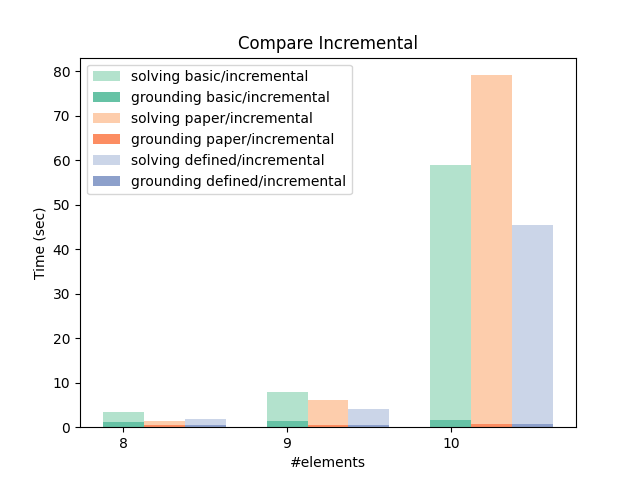
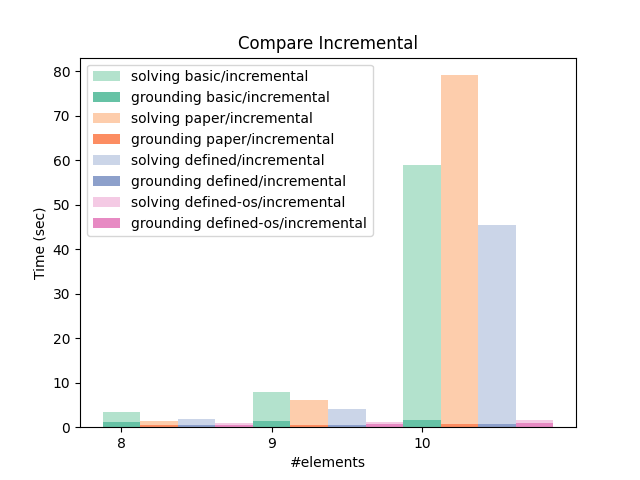
Option to extend incrementally overshooting

diff --git a/asp_interactive_configuration/ooasp/tests/test_interactive_defined.py b/asp_interactive_configuration/ooasp/tests/test_interactive_defined.py
@@ -111,12 +111,53 @@ def test_s_interactive_extend_incrementally():
     assert iconf.domain_size == 5
     assert "ooasp_domain(frame,1)." in found.fb.asp_str()
     assert "ooasp_isa_leaf(frame,1)." in found.fb.asp_str()
+    assert "ooasp_domain(object,2)." in found.fb.asp_str()
     assert "ooasp_domain(object,3)." in found.fb.asp_str()
     assert "ooasp_domain(object,4)." in found.fb.asp_str()
     assert "ooasp_domain(object,5)." in found.fb.asp_str()
     found = iconf.next_solution()
     assert found
     assert len(iconf.states)==3
+
+def test_s_interactive_extend_incrementally_overshooting():
+    racks_kb = OOASPKnowledgeBase.from_file("racks_v1",settings.racks_example_kb)
+    iconf = InteractiveConfigurator(racks_kb,"i1")
+    iconf.new_object('frame')
+    found = iconf.extend_incrementally(overshoot=True)
+    assert found
+    assert iconf.domain_size == 5
+    assert "ooasp_domain(frame,1)." in found.fb.asp_str()
+    assert "ooasp_isa_leaf(frame,1)." in found.fb.asp_str()
+    assert "ooasp_domain(rack,2)." in found.fb.asp_str()
+    assert "ooasp_domain(object,3)." in found.fb.asp_str()
+    assert "ooasp_domain(object,4)." in found.fb.asp_str()
+    assert "ooasp_domain(object,5)." in found.fb.asp_str()
+    print(iconf)
+    found = iconf.next_solution()
+    assert found
+    print(found)
+    assert len(iconf.states)==3
+
+def test_s_interactive_extend_incrementally_overshooting_leaving_object():
+    racks_kb = OOASPKnowledgeBase.from_file("racks_v1",settings.racks_example_kb)
+    iconf = InteractiveConfigurator(racks_kb,"i1")
+    iconf.new_object('frame')
+    iconf.new_object('frame')
+    found = iconf.extend_incrementally(overshoot=True)
+    assert found
+    assert iconf.domain_size == 6
+    assert "ooasp_domain(frame,1)." in found.fb.asp_str()
+    assert "ooasp_isa_leaf(frame,1)." in found.fb.asp_str()
+    assert "ooasp_domain(frame,2)." in found.fb.asp_str()
+    assert "ooasp_domain(rack,3)." in found.fb.asp_str()
+    assert "ooasp_domain(rack,4)." in found.fb.asp_str()
+    found = iconf.next_solution()
+    print(found)
+    assert found
+    assert not "ooasp_isa_leaf(rack,4)." in found.fb.asp_str() or  not "ooasp_isa_leaf(rack,3)." in found.fb.asp_str()
+    assert found.size == 5
+    assert len(iconf.states)==4
+
 
 def test_s_interactive_select_full():
     racks_kb = OOASPKnowledgeBase.from_file("racks_v1",settings.racks_example_kb)
@@ -345,6 +386,28 @@ def test_extend_propagate_symmetry():
     assert found
     found = iconf.next_solution()
     assert found
+
+def test_create_required_objects():
+    racks_kb = OOASPKnowledgeBase.from_file("racks_v1",settings.racks_example_kb)
+    iconf = InteractiveConfigurator(racks_kb,"i1")
+    # iconf.extend_domain(5,cls='object',propagate=True)
+    iconf.extend_domain(1,cls='rackSingle')
+    iconf.extend_domain(3,cls='frame')
+    iconf.select_association('rack_frames',1,2)
+    iconf.select_association('rack_frames',1,3)
+    iconf.select_association('rack_frames',1,4)
+    found = iconf.next_solution()
+    assert not found
+    config_str = iconf.config.fb.asp_str()
+    assert "ooasp_associated(rack_frames,1,2)." in config_str
+    assert "ooasp_associated(rack_frames,1,3)." in config_str
+    assert "ooasp_associated(rack_frames,1,4)." in config_str
+    iconf._create_required_objects('rackSingle',1)
+    config_str = iconf.config.fb.asp_str()
+    assert "ooasp_domain(frame,5)." in config_str
+    found = iconf.next_solution()
+    assert found
+
 
 def test_custom_interactive_add_leaf_extend_browse():
     racks_kb = OOASPKnowledgeBase.from_file("racks_v1",settings.racks_example_kb)

diff --git a/asp_interactive_configuration/ooasp/interactive.py b/asp_interactive_configuration/ooasp/interactive.py
@@ -283,23 +283,26 @@ class InteractiveConfigurator:
         """
         self.ctl.add("domain",[str(self.domain_size)],str(fact)+".")
 
-    def _create_associations(self, cls:str, object_id:int, ignore_cls:List=None)->None:
-        if ignore_cls is None:
-            ignore_cls = set()
+    def _create_required_objects(self, cls:str, object_id:int, ignore_assoc:List=None)->None:
+        if ignore_assoc is None:
+            ignore_assoc = set()
         assocs = self.config.kb.associations(cls)
         assocs_added = []
         for name, class2, min, max in assocs:
-            if name in ignore_cls:
+            if name in ignore_assoc:
                 continue
+            curret_assoc = self.config.associated_by(object_id,name)
+            remaining = min - len(curret_assoc) 
+            if remaining<0:
+                raise RuntimeError(f"Object {object_id} associated to more objects via {name}, tha expected")
             assocs_added.append(name)
-            for _ in range(min):
+            for _ in range(remaining):
                 object_id2 = self._extend_domain(class2,True,assocs_added)
-                # self.config.add_association(name,object_id,object_id2)
 
 
 
 
-    def _extend_domain(self, cls='object',propagate=False, ignore_cls:List=None)->int:
+    def _extend_domain(self, cls='object',propagate=False, ignore_assoc:List=None)->int:
         """
         Increases the domain size by one and adds a new domain(object,N) fact to
         the configuration.
@@ -309,7 +312,7 @@ class InteractiveConfigurator:
         new_object = self.state.domain_size
         self.config.add_domain(cls,new_object)
         if propagate:
-            self._create_associations(cls, new_object,ignore_cls)
+            self._create_required_objects(cls, new_object,ignore_assoc)
         return new_object
 
 
@@ -653,7 +656,7 @@ class InteractiveConfigurator:
             self.states.pop()
             raise e
 
-    def extend_incrementally(self, domain_limit:int=100)->OOASPConfiguration:
+    def extend_incrementally(self, domain_limit:int=100, overshoot:bool=False)->OOASPConfiguration:
         """
         Creates a state with a new configuration.
         Trys to find a solution for the current domain size, if a solution is
@@ -667,10 +670,16 @@ class InteractiveConfigurator:
 
             Parameters:
                 domain_limit: The limit size the domain can reach
+                overshoot: If this is passed, then the required elements will be created for each object
             Returns:
                 The found OOASPConfiguration or None if no more solutions are found
         """
-        self._new_state("Extend incrementally",deep=True)
+        name = "Extend incrementally" if not overshoot else "Extend incrementally overshooting"
+        self._new_state(name,deep=True)
+        if overshoot:
+            objs = self.config.objects
+            for o in objs:
+                self._create_required_objects(o.class_name, o.object_id)
         self.found_config = self._next_solution()
 
         while self.found_config == None or self.domain_size>domain_limit:

diff --git a/asp_interactive_configuration/benchmarks/benchmark.py b/asp_interactive_configuration/benchmarks/benchmark.py
@@ -43,8 +43,11 @@ class BM:
         self.set_final_results()
 
     def add_run_results(self, time, iconf):
+        print(iconf)
         result = {
-           "time": time
+           "time": time,
+           "size": iconf.config.size,
+           "domain_size": iconf.config.domain_size,
         }
         result.update(iconf._statistics)
         self.runs[len(self.runs)]=result
@@ -54,9 +57,12 @@ class BM:
         for run in self.runs.values():
             for t in self.final_results.keys():
                 self.final_results[t]+=run[t]
+            self.final_results['size']=run['size']
+            self.final_results['domain_size']=run['domain_size']
 
-        for t in self.final_results.keys():
+        for t in ['time','time-solving','time-grounding']:
             self.final_results[t]=self.final_results[t]/self.n_runs
+
 
         times_per_domain = ["per-domain-grounding","per-domain-solving"]
         for tpd in times_per_domain:
@@ -92,38 +98,27 @@ def new_iconf():
 def extend_solve(ne):
     iconf = new_iconf()
     # current limit
-    if opt == 'defined':
-        # TODO fix
-        iconf.extend_domain(ne, "elementA")
-    else:
-        for i in range(ne):
-            iconf.new_object("elementA")
+    for i in range(ne):
+        iconf.new_object("elementA")
     iconf.extend_domain(ne + 5)
     found = iconf.next_solution()
+    iconf.select_found_configuration()
     return iconf
 
 def incremental(ne):
     iconf = new_iconf()
     # current limit
-    if opt == 'defined':
-        for i in range(ne):
-            iconf.extend_domain(1, "elementA")
-            iconf.select_object_class(i+1, "elementA")
-    else:
-        for i in range(ne):
-            iconf.new_object("elementA")
-    found = iconf.extend_incrementally()
-    print(found)
+    for i in range(ne):
+        iconf.new_object("elementA")
+    found = iconf.extend_incrementally(overshoot=True)
+    iconf.select_found_configuration()
     return iconf
 
 def options(ne):
     iconf = new_iconf()
     # current limit
-    if opt=='defined':
-        iconf.extend_domain(ne,"elementA")
-    else:
-        for i in range(ne):
-            iconf.new_object("elementA")
+    for i in range(ne):
+        iconf.new_object("elementA")
     iconf.get_options()
     return iconf
 
@@ -152,6 +147,6 @@ def run(n_runs,fun,elements,name = "extend_solve"):
     save_results(results,name)
 
 # run(2,extend_solve,elements=[13,14,15,16,17,18],name=f"{opt}/extend_solve")
-run(2,incremental,elements=[8,9,10],name=f"{opt}/incremental")
+run(2,incremental,elements=[8,9,10],name=f"{opt}-os/incremental")
 # run(2,options,elements=[18,20,22,24],name=f"{opt}/options")
 # run(2,options_object,elements=[18,20,22,24],name=f"{opt}/options_object")

diff --git a/asp_interactive_configuration/ooasp/config.py b/asp_interactive_configuration/ooasp/config.py
@@ -167,6 +167,13 @@ class  OOASPConfiguration:
         The domain size, it is computed by counting the number of objects in the fact base.
         """
         return self.fb.query(self.UNIFIERS.Domain).select(self.UNIFIERS.Domain.object_id).count()
+    
+    @property
+    def size(self)->int:
+        """
+        The number of instantiated objects via isa_leaf
+        """
+        return self.fb.query(self.UNIFIERS.Leaf).select(self.UNIFIERS.Leaf.object_id).count()
 
     @property
     def has_cv(self)->bool:
@@ -240,6 +247,16 @@ class  OOASPConfiguration:
         input_facts = list(self.fb.query(self.UNIFIERS.User).select(self.UNIFIERS.User.predicate).all())
         return [f.symbol for f in input_facts]
 
+    def associated_by(self, obj, assoc_name)->List[Predicate]:
+        """
+        The list of associations from object obj via association assoc_name
+        """
+        Association = self.UNIFIERS.Association
+        q = self.fb.query(Association)
+        q = q.where(((Association.object_id1==obj)&(Association.assoc_name==assoc_name)))
+        q = q.select(Association.object_id2)
+        return list(q.all())
+    
     def domains_from(self, start_domain)->int:
         """
         The domain size, it is computed by counting the number of objects in the fact base.

diff --git a/asp_interactive_configuration/benchmarks/plot.py b/asp_interactive_configuration/benchmarks/plot.py
@@ -72,10 +72,10 @@ def plot_domain(bm_name, title, name):
 
 # Extend solve
 # plot_gs(["basic/extend_solve","paper/extend_solve","defined/extend_solve"], "Compare Extend Solve")
-plot_gs(["basic/incremental",'paper/incremental','defined/incremental'], "Compare Incremental")
+plot_gs(["basic/incremental",'paper/incremental','defined/incremental','defined-os/incremental'], "Compare Incremental")
 # plot_gs(["basic/options",'paper/options','defined/options'], "Compare Options")
 # plot_gs(["defined/options",'defined/options_object'], "Compare Options to Object")
 
 
-# plot_domain("defined/incremental", "Extend incrementally (From 9 Elements)","9")
+plot_domain("defined-os/incremental", "Extend incrementally (From 9 Elements)","9")
 # plot_domain("defined/incremental", "Incremental (Domain 10)","10")
